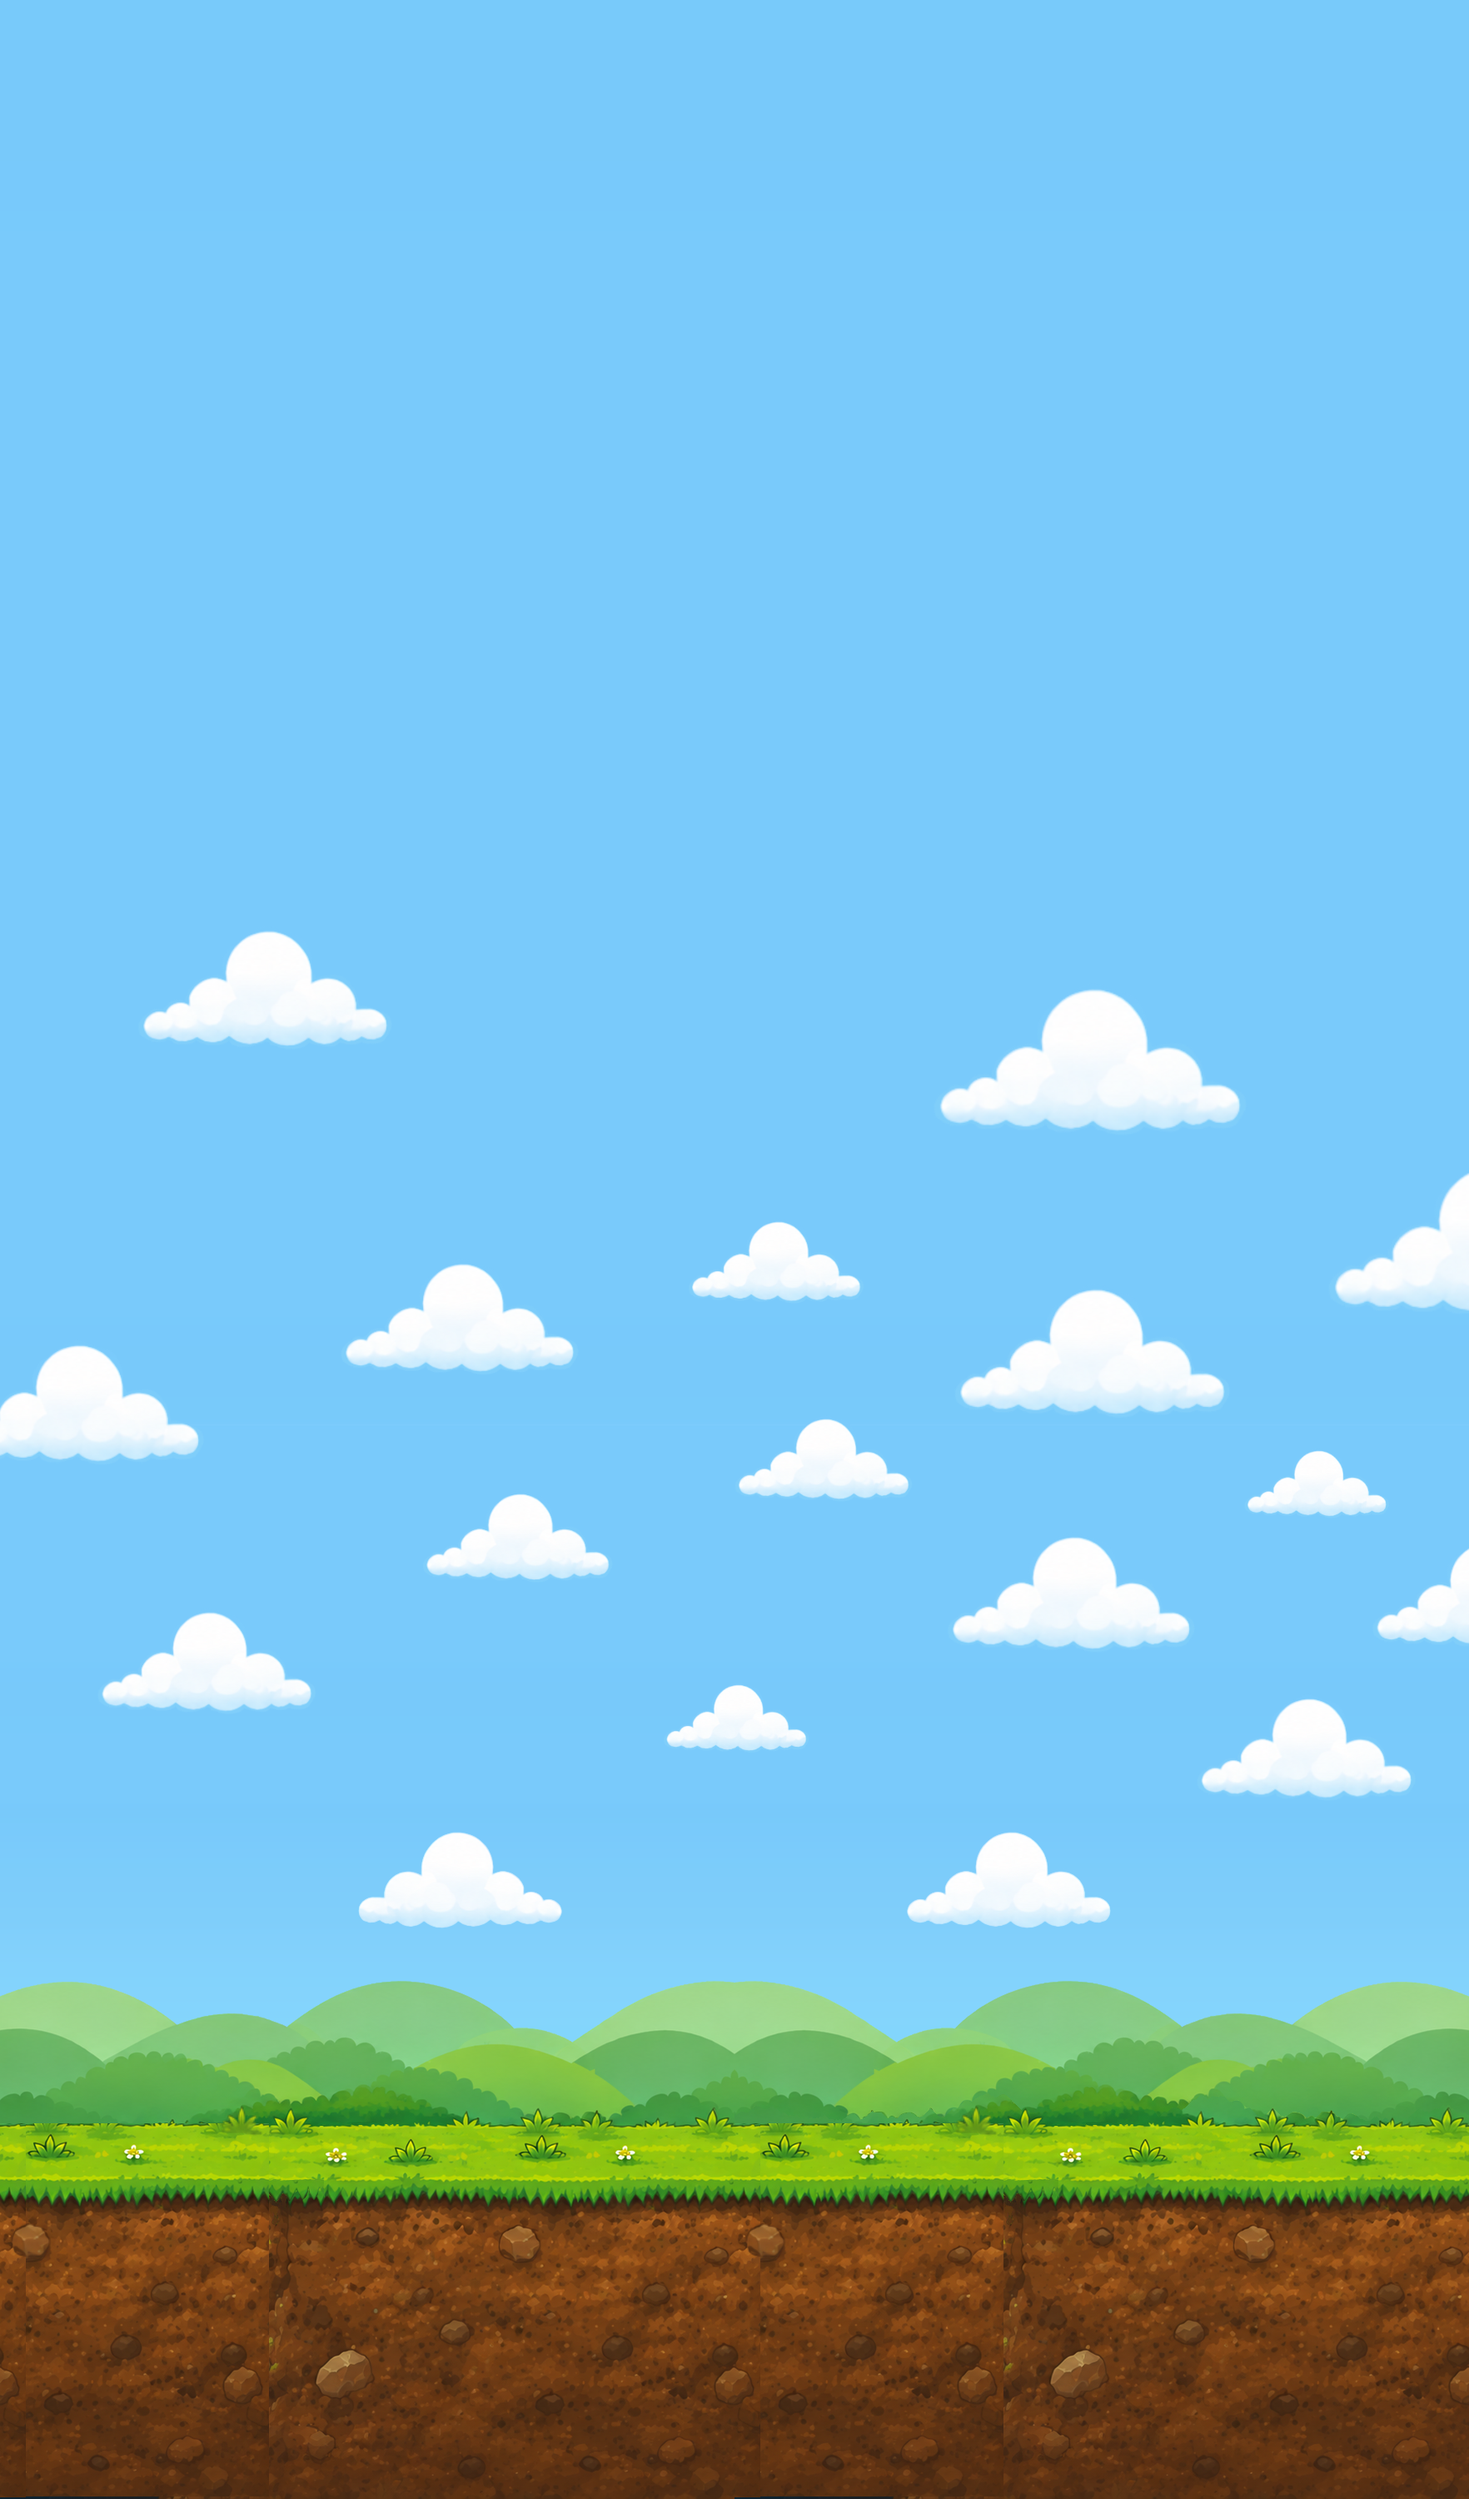
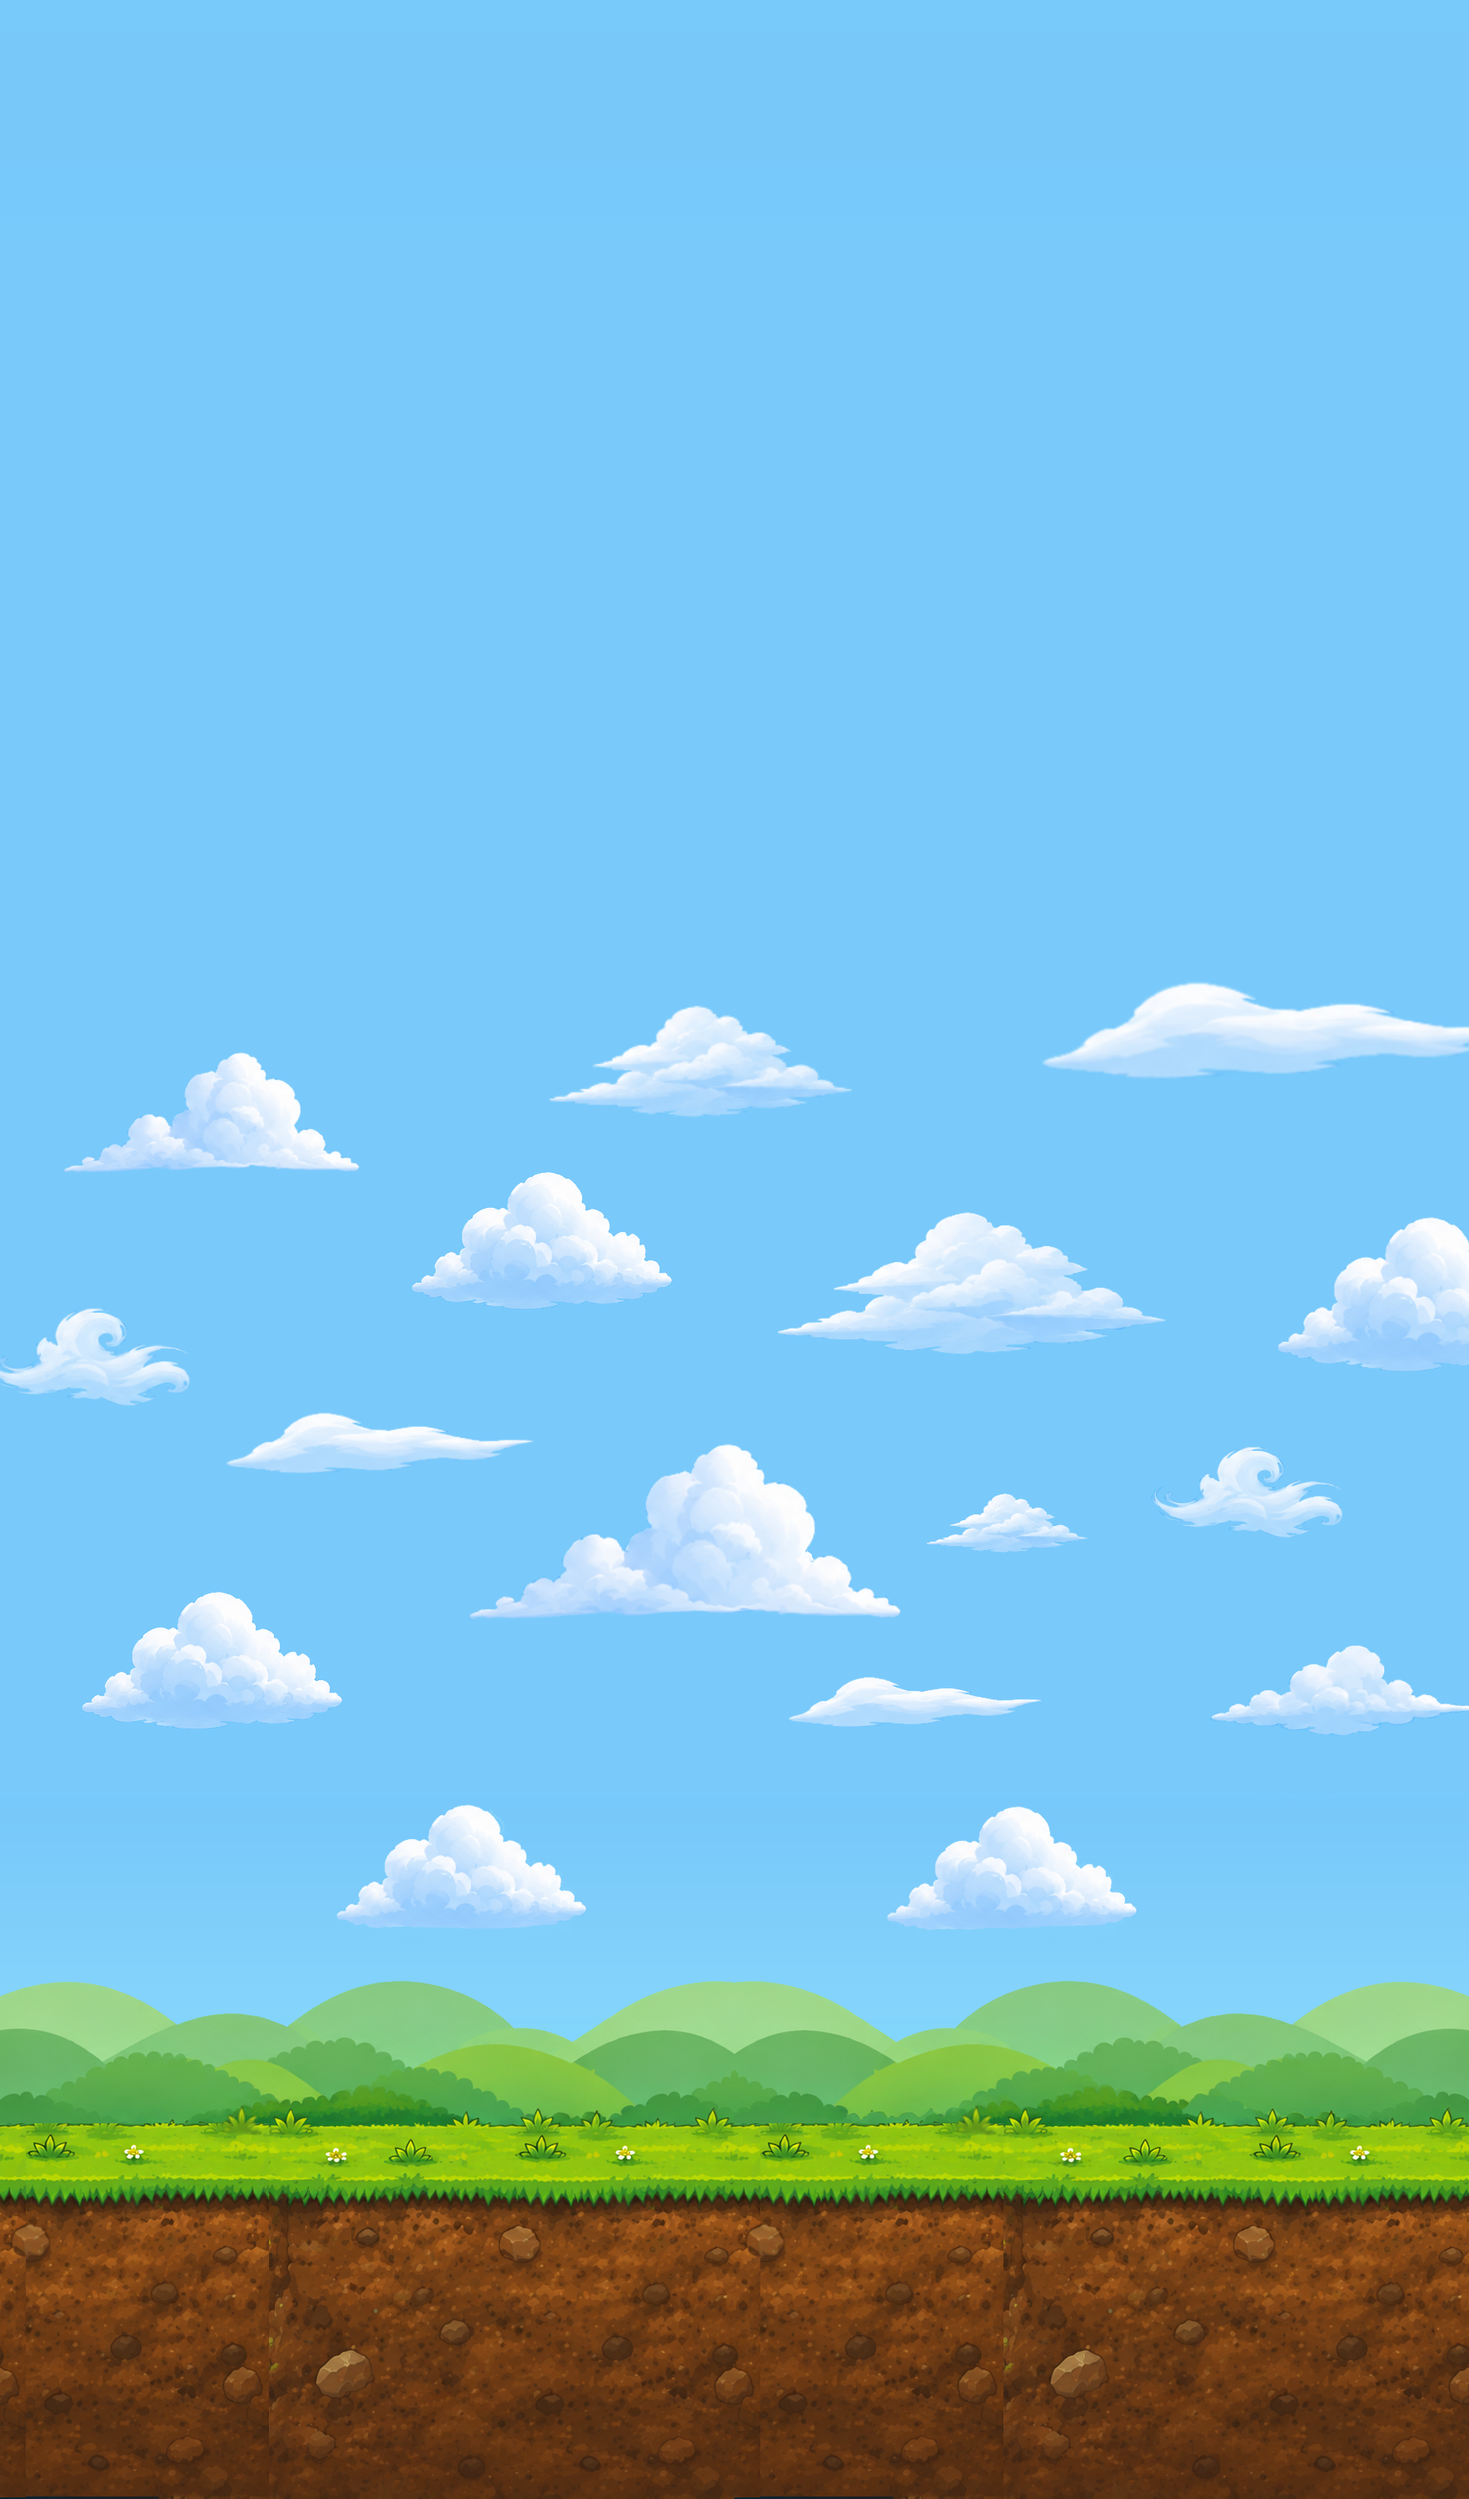
Fix the Phase 2 Scene

diff --git a/BennysGreatEscape/GameScene.swift b/BennysGreatEscape/GameScene.swift
@@ -92,13 +92,28 @@ private enum Layout {
     /// authored. The line Benny's head is checked against at the apex.
     static var visibleTop: CGFloat { sceneSize.height - visibleInsetY }
 
-    /// Where the dog and every obstacle stand.
+    /// Where the dog and every obstacle stand — and, through
+    /// `BackdropArt.bottomY`, where the painting behind them hangs from.
     ///
-    /// Just under a third of the way up what is actually shown — 109 above the
-    /// visible bottom edge of 66, in a band 368 tall. Portrait had it at 35%,
-    /// and the difference is sky that landscape can no longer afford: the
-    /// headroom above this is what a jump has to fit inside.
-    static let groundTop: CGFloat = 175
+    /// That second job makes this the one place the whole scene can be slid up
+    /// or down. Everything vertical in the game derives from it, the scenery
+    /// included, so moving it moves the world and the countryside together and
+    /// nothing comes off the plane it was staged on.
+    ///
+    /// Which is the hard-won part. `BackdropArt.standFraction` also moves the
+    /// painting and looks like the same knob, and it is not: it slides the
+    /// picture *underneath* a world that stays put. Reaching for it to drop the
+    /// scene left the dog house, the obstacles and Benny standing seventeen
+    /// units further back up the grass than they were drawn to sit, with the
+    /// house's feet in the middle of the turf instead of at its front edge.
+    ///
+    /// A quarter of the way up what is actually shown — 91 above the visible
+    /// bottom edge of 66, in a band 368 tall. It was 175 until the repainted
+    /// sky arrived with clouds near the top of its lowest band; eighteen units
+    /// down is what stops the screen's top edge slicing them, and it buys
+    /// eighteen units of jump headroom on the way past. Portrait had this at
+    /// 35%, and the difference is sky that landscape can no longer afford.
+    static let groundTop: CGFloat = 157
 
     /// Sized off the collar, which is the one part of the drawing that keeps a
     /// fixed size whatever Benny's doing — matching canvas widths would shrink
@@ -622,6 +637,15 @@ private enum BackdropArt {
     /// started, the bush line sits at Benny's heels and the whole flowered
     /// strip lies in front of him untouched, and he reads as pressed against a
     /// hedge rather than running through a park.
+    ///
+    /// **Not** the way to slide the scene up or down, however much it looks
+    /// like it. This moves the painting *relative to* everything standing on
+    /// it: Benny and the obstacles are staged against `Layout.groundTop`, which
+    /// does not follow, so turning this down drops the countryside and leaves
+    /// the whole cast planted further back up the grass — the dog house ends up
+    /// mid-turf with a band of field in front of its feet. `Layout.groundTop`
+    /// is the knob that moves both at once; this one only ever changes where in
+    /// the grass they stand.
     static let standFraction: CGFloat = 0.5
 
     /// The row of the painting the game is played on, and so the row that has
@@ -1415,7 +1439,7 @@ private enum Cliff {
     /// sprite's own top edge goes.
     ///
     /// Not a guess: `Layout.groundTop` isn't the top of the grass, it's
-    /// `BackdropArt.standFraction` (half) of the way *through* it — the same
+    /// `BackdropArt.standFraction` of the way *through* it — the same
     /// derivation `BackdropArt.anchorFraction` itself uses — so the true
     /// grass line sits this far above it:
     static let grassRise: CGFloat = BackdropArt.landSize.height
@@ -1581,7 +1605,11 @@ private enum Launch {
     /// hundred obstacles first; ships `nil`, the way `Cliff.debugSpawnAlways`
     /// ships `false`. It moves the trigger and nothing else, so what you get is
     /// the real launch and not a debug approximation of one.
-    static let debugAtScore: Int? = nil
+    ///
+    /// Set to 5 while the clip is being worked on. Put it back to `nil` before
+    /// this ships — `atScore` below is the real figure and is deliberately left
+    /// alone, so turning the knob back is the only thing that has to happen.
+    static let debugAtScore: Int? = 5
     static var trigger: Int { debugAtScore ?? atScore }
 
     /// How big the dog house stands, from Benny's own length.
@@ -1700,17 +1728,25 @@ private enum Launch {
     /// bottom of it.
     ///
     /// It was 1.35 when the ceiling was the top of the screen and the whole
-    /// ascent was 250 units. At 700 it needs to be an ascent rather than a
-    /// flick.
-    static let climb: TimeInterval = 2.2
+    /// ascent was 250 units. At 1150 it needs to be an ascent rather than a
+    /// flick — and a touch faster per unit than it was at 700, which is what a
+    /// rocket that has been burning for three seconds should look like.
+    static let climb: TimeInterval = 3.0
 
     /// How far above the turf the rocket climbs, in scene points.
     ///
     /// This used to be whatever was left of the screen — the rocket stopped just
     /// under the top edge because that was where the painting stopped. The tall
-    /// backdrop carries sky to 1807, so the only thing deciding this now is how
+    /// backdrop carries sky to 1790, so the only thing deciding this now is how
     /// high the shot wants to go.
-    static let apex: CGFloat = 700
+    ///
+    /// High enough to clear the weather. At 700 the frame sat at y 670–1038 and
+    /// the cloud layer's ceiling is 1030, so the rocket turned with cloud all
+    /// around it; the shot wants open blue. This puts the frame at 1120–1488 —
+    /// ninety units of clear air below its bottom edge, three hundred of
+    /// painted sky above its top — and gets there by climbing through the whole
+    /// cloud layer, which is the better half of the shot.
+    static let apex: CGFloat = 1150
 
     /// How much clear air is left over the rocket's nose at the top of the
     /// climb, so the shot ends in open sky rather than against a ceiling.

diff --git a/Art/CropBackground.swift b/Art/CropBackground.swift
@@ -308,22 +308,31 @@ private func ramp(_ value: Int, from low: Int, to high: Int) -> Double {
 ///
 /// The tall painting is a single tile and very nearly wraps already: measured
 /// per two-hundred-row band, its left and right edges agree *exactly*
-/// everywhere — all the sky, all the hills, all the ground — except three bands
-/// in the middle, where a couple of clouds straddle the join. Laid end to end
-/// those draw half a cloud against half of a different one, twice a lap, and
-/// `verifyWrap` refuses the crop over it.
+/// everywhere — all the sky, all the hills, all the ground — except a few bands
+/// in the middle, where clouds straddle the join. Laid end to end those draw
+/// half a cloud against half of a different one, twice a lap, and `verifyWrap`
+/// refuses the crop over it.
 ///
 /// The sky behind them is a flat vertical gradient, which is what makes this
 /// easy: a cloud can simply be taken out and the gradient put back, leaving a
-/// sky with two fewer clouds in it and no seam at all. Flood rather than a
-/// column walk, because a cloud is a blob — walking in row by row would clear
-/// the rows that reach the edge and leave crescents of the ones that don't.
+/// sky with fewer clouds in it and no seam at all. Flood rather than a column
+/// walk, because a cloud is a blob — walking in row by row would clear the rows
+/// that reach the edge and leave crescents of the ones that don't.
+///
+/// What goes is reported by row, and that matters more than it looks. This is
+/// the one step that silently takes painted work out of the picture, and a
+/// backdrop is repainted by moving things around in the sky — so the cloud an
+/// artist nudged towards the edge is exactly the cloud this deletes, and
+/// without the rows printed there is nothing to connect the two. The second
+/// painting through here lost four, three of them in the stretch the rocket
+/// climbs past, and the fix is to move them off the edge in the source rather
+/// than anything in this file.
 ///
 /// The alternative is `MakeTileable`'s mirror, which wraps a whole band by
 /// making it a palindrome. That is the right answer for a painting that doesn't
 /// repeat at all; here it would double the tile and recompose a picture that is
 /// otherwise exactly right, to fix two clouds.
-private func clearEdgeClouds(_ sheet: inout Bitmap) -> (clouds: Int, pixels: Int) {
+private func clearEdgeClouds(_ sheet: inout Bitmap) -> (clouds: [(rows: ClosedRange<Int>, side: String, pixels: Int)], pixels: Int) {
     // Each row's own sky, by median — clouds are never most of a row.
     var sky: [[Int]] = []
     for y in 0..<sheet.height {
@@ -357,12 +366,14 @@ private func clearEdgeClouds(_ sheet: inout Bitmap) -> (clouds: Int, pixels: Int
     }
 
     var seen = [Bool](repeating: false, count: sheet.width * sheet.height)
-    var blobs = 0, cleared = 0
+    var blobs: [(rows: ClosedRange<Int>, side: String, pixels: Int)] = []
+    var cleared = 0
     for y in 0..<sheet.height {
         for x in [0, sheet.width - 1] {
             let seed = y * sheet.width + x
             guard !seen[seed], isCloud(x, y) else { continue }
-            blobs += 1
+            var top = y, bottom = y, size = 0
+            var touchesLeft = false, touchesRight = false
             var stack = [seed]
             seen[seed] = true
             while let pixel = stack.popLast() {
@@ -370,6 +381,11 @@ private func clearEdgeClouds(_ sheet: inout Bitmap) -> (clouds: Int, pixels: Int
                 let o = sheet.offset(px, py)
                 for c in 0..<3 { sheet.pixels[o + c] = UInt8(sky[py][c]) }
                 cleared += 1
+                size += 1
+                top = min(top, py)
+                bottom = max(bottom, py)
+                if px == 0 { touchesLeft = true }
+                if px == sheet.width - 1 { touchesRight = true }
                 for (dx, dy) in [(1, 0), (-1, 0), (0, 1), (0, -1)] {
                     let nx = px + dx, ny = py + dy
                     guard nx >= 0, nx < sheet.width, ny >= 0, ny < sheet.height else { continue }
@@ -379,6 +395,9 @@ private func clearEdgeClouds(_ sheet: inout Bitmap) -> (clouds: Int, pixels: Int
                     stack.append(next)
                 }
             }
+            let side = touchesLeft && touchesRight ? "both edges"
+                     : touchesLeft ? "left edge" : "right edge"
+            blobs.append((top...bottom, side, size))
         }
     }
     return (blobs, cleared)
@@ -559,9 +578,15 @@ print("background")
 private var source = load("Art/bg_scroll_tall_source.png")
 print("  source \(source.width)x\(source.height)")
 
-// Before anything is measured off it: the two clouds sitting across the join.
+// Before anything is measured off it: the clouds sitting across the join.
 private let swept = clearEdgeClouds(&source)
-print("  edge clouds: \(swept.clouds) rubbed out, \(swept.pixels) pixels put back to sky")
+print("  edge clouds: \(swept.clouds.count) rubbed out,"
+    + " \(swept.pixels) pixels put back to sky")
+for cloud in swept.clouds.sorted(by: { $0.pixels > $1.pixels }) {
+    print("    rows \(cloud.rows.lowerBound)-\(cloud.rows.upperBound)"
+        + " on the \(cloud.side), \(cloud.pixels) pixels"
+        + " — move it clear of the edge in the source to keep it")
+}
 
 private let rows = interesting
     .flatMap { stride(from: $0.0, through: min($0.1, source.height - 1), by: 6) }
